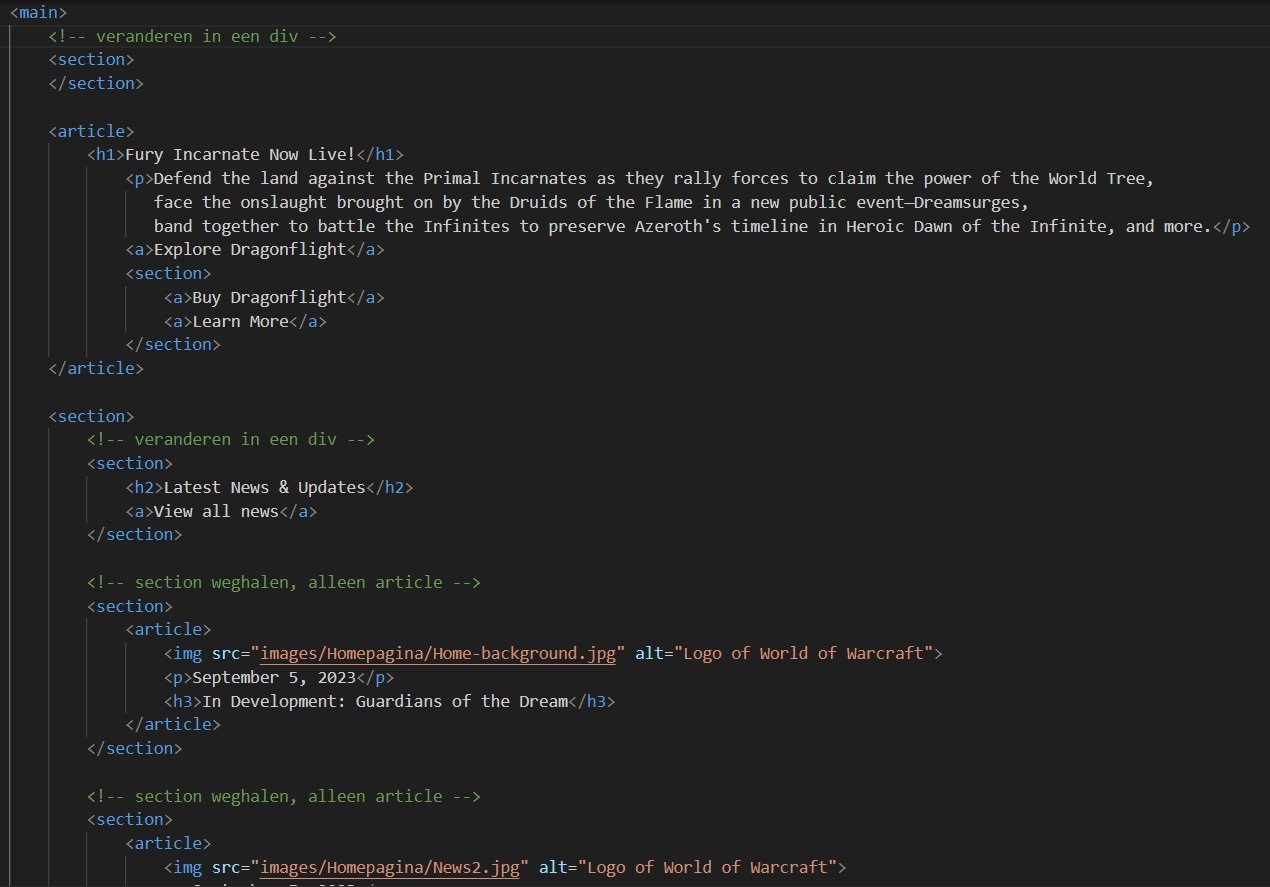
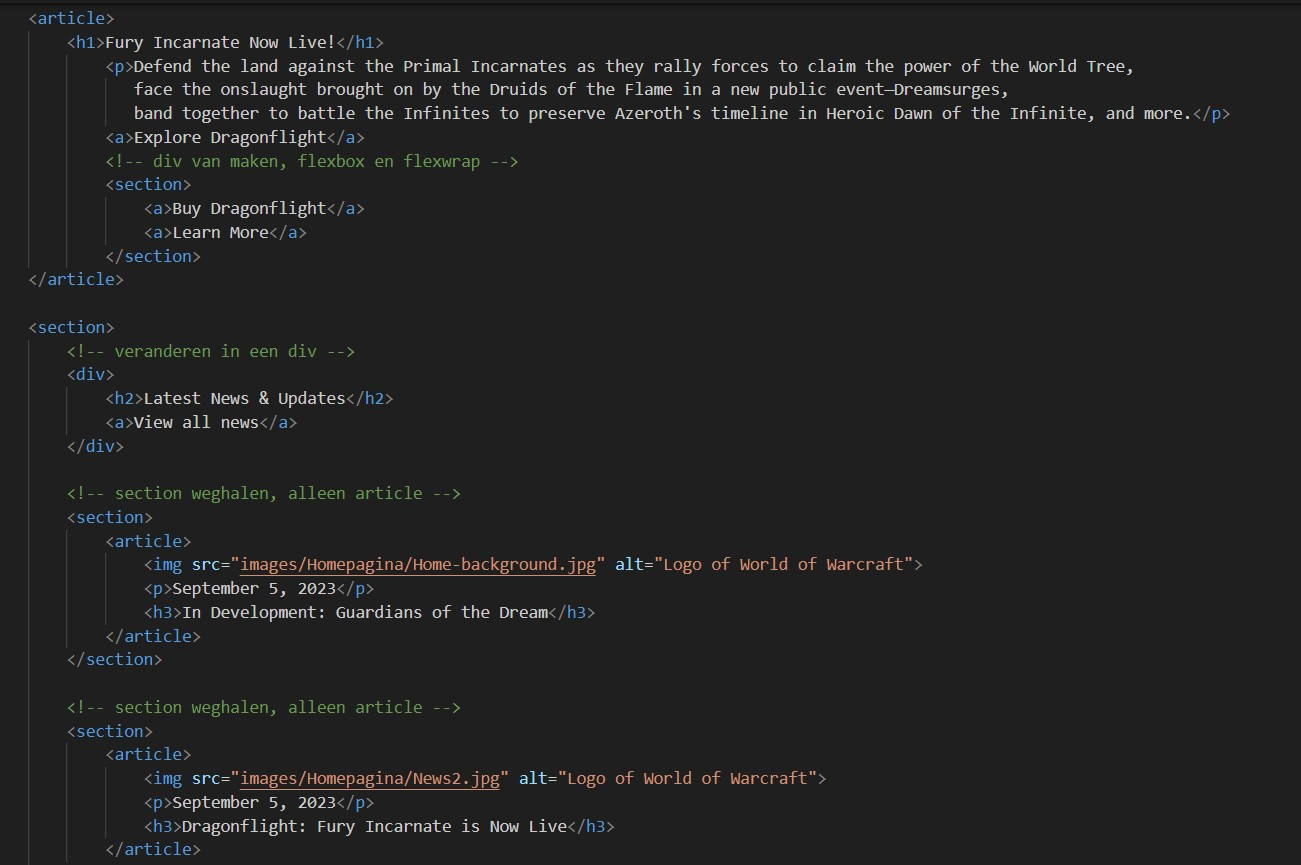
Add files via upload

Changed region(s): [[0.0, 0.0, 0.9827, 0.9988], [0.522, 0.6243, 0.7063, 0.6555], [0.0307, 0.3121, 0.0921, 0.3434]]

diff --git a/index.html b/index.html
@@ -40,8 +40,7 @@
 	</header>
 
 	<main>
-		<section>
-		</section>
+		<div></div>
 
 		<article>
 			<h1>Fury Incarnate Now Live!</h1>
@@ -49,6 +48,7 @@
 				   face the onslaught brought on by the Druids of the Flame in a new public event—Dreamsurges, 
 				   band together to battle the Infinites to preserve Azeroth's timeline in Heroic Dawn of the Infinite, and more.</p>
 				<a>Explore Dragonflight</a>
+				<!-- div van maken, flexbox en flexwrap -->
 				<section>
 					<a>Buy Dragonflight</a>
 					<a>Learn More</a>
@@ -56,11 +56,13 @@
 		</article>
 
 		<section>
-			<section>
+			<!-- veranderen in een div -->
+			<div>
 				<h2>Latest News & Updates</h2>
 				<a>View all news</a>
-			</section>
+			</div>
 
+			<!-- section weghalen, alleen article -->
 			<section>
 				<article>
 					<img src="images/Homepagina/Home-background.jpg" alt="Logo of World of Warcraft">
@@ -69,6 +71,7 @@
 				</article>
 			</section>
 
+			<!-- section weghalen, alleen article -->
 			<section>
 				<article>
 					<img src="images/Homepagina/News2.jpg" alt="Logo of World of Warcraft">
@@ -78,6 +81,7 @@
 			</section>
 		</section>
 
+		<!-- 1 section van maken met allerlei articles erin -->
 		<section>
 				<article>
 					<img src="images/Homepagina/NewToWow.jpg" alt="Logo of World of Warcraft">
@@ -103,6 +107,7 @@
 					magical items to add to your collection with just the exchange of Trader&#39;s 
 					Tender—earnable through a variety of in-game activities.
 				</p>
+				<!-- div van maken, flexbox en flexwrap -->
 				<a>Overview</a>
 				<a>Featured Items</a>
 			</article>
@@ -116,6 +121,7 @@
 				<p>Add the Wondrous Wavewhisker fancy-finned mount to your muster of mounts with a 
 					6-Month Subscription along with the adorable Glub pet to keep you company in World of Warcraft®: 
 					Wrath of the Lich King Classic™.</p>
+				<!-- div van maken, flexbox en flexwrap -->	
 				<a>Subscribe Now</a>
 				<a>Learn More</a>
 			</article>
@@ -129,6 +135,7 @@
 				<p>Wrath of the Lich King® Classic™ is now available worldwide, included with your WoW Subscription at no additional cost. 
 				   Return to Northrend in style with an optional Northrend Upgrade and receive a Level 70 Character Boost, and other goodies 
 				   to help you on your adventure. Conquer the frozen wastes today, hero!</p>
+				<!-- div van maken, flexbox en flexwrap -->   
 				<a>Shop Upgrades</a>
 				<a>Learn More</a>
 			</article>
@@ -156,14 +163,18 @@
 				<p>The dragonflights of Azeroth have returned, called upon to defend their ancestral home, the Dragon Isles. Battle to level 70 as 
 				   the Dracthyr Evoker, explore four new zones, conquer eight new dungeons, and enter a new age of adventure today!
 				</p>
+				<!-- div van maken, flexbox en flexwrap -->
 				<a>Buy Now</a>
 			</article>
 		</section>
 	</main>
 
 	<footer>
+		<!-- 1 hele section van maken -->
 		<section>
+			<!-- h2 van maken -->
 			<p>Follow Warcraft</p>
+			<!-- div van maken, flexbox en flexwrap -->
 			<section>
 				<a href="">
 					<img src="images/facebook.png" alt="Facebook icoon">
@@ -183,6 +194,7 @@
 			</section>
 		</section>
 
+		<!-- div van maken, flexbox en flexwrap -->
 		<section>
 			<a>
 				<img src="images/Homepagina/World.png" alt="Logo of World of Warcraft">
@@ -190,12 +202,14 @@
 			</a>	
 		</section>
 
+		<!-- div van maken, flexbox en flexwrap -->
 		<section>
 			<a>
 				<img src="images/Homepagina/BlizzardLogo.png" alt="Logo of Blizzard">
 			</a>
 		</section>
 
+		<!-- div van maken, flexbox en flexwrap -->
 		<section>
 			<a>Careers</a>
 			<a>About</a>
@@ -205,12 +219,14 @@
 			<a>Api</a>
 		</section>
 
+		<!-- div van maken, flexbox en flexwrap -->
 		<section>
 			<p>All games, one app: </p>
 			<img src="images/Homepagina/BattlenetLogo.png" alt="Logo of Battlenet">
 			<a>Battle.net Desktop App</a>
 		</section>
 
+		<!-- div van maken, flexbox en flexwrap -->
 		<section>
 			<p>©2023 Blizzard Entertainment, Inc.
 			   All trademarks referenced herein are the properties of their respective owners.
@@ -224,6 +240,7 @@
 			</section>
 		</section>
 
+		<!-- div van maken, flexbox en flexwrap -->
 		<section>
 			<a>
 				<img src="images/Homepagina/Age12.jpg" alt="Age must be 12" width="70" height="90"> 
